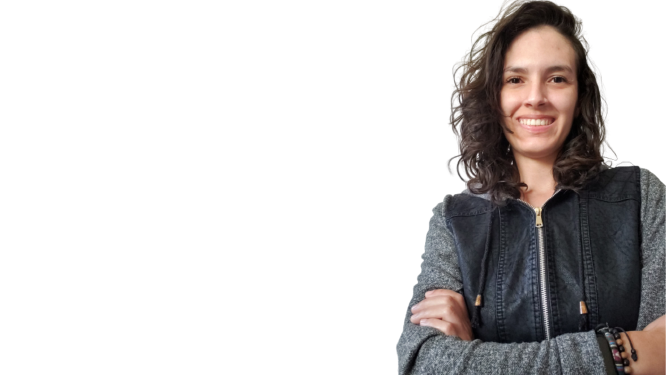
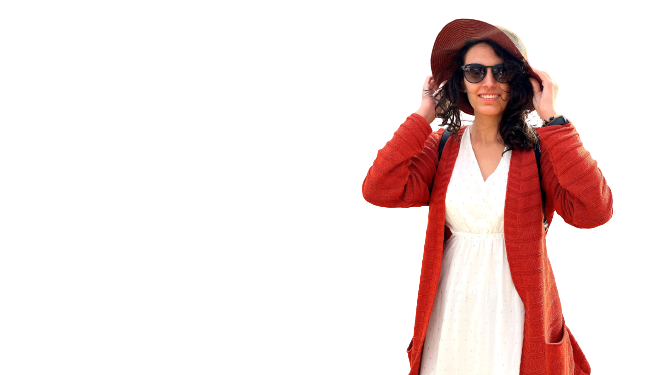
mudança na foto do header e inserção de imagens e texto dos projetos

diff --git a/src/components/Main.js b/src/components/Main.js
@@ -1,37 +1,58 @@
-import React from "react";
+import React from 'react';
 
 function Main() {
   return (
-    <main className="container">
-      <div className="card-container">
-        <div className="card">
-          <div className="card-wrapper">
-            <h2>Projeto 1</h2>
+    <main className='projects-container'>
+      <div className='card-container'>
+        <div className='card shopping-cart'>
+          <div className='card-wrapper'>
+            <h2>Shopping Cart</h2>
             <p>Vem ver!</p>
           </div>
         </div>
-        <div className="card-text">Textão aqui</div>
+        <div className='card-text'>
+          Nesse projeto foi desenvolvido um carrinho de compras totalmente
+          dinâmico consumindo dados diretamente da API do Mercado Livre!
+        </div>
       </div>
-      <div className="card-container">
-        <div className="card">
-          <div className="card-wrapper">
-            <h2>Projeto 1</h2>
+      <div className='card-container'>
+        <div className='card trybe-tunes'>
+          <div className='card-wrapper'>
+            <h2>Trybe Tunes</h2>
             <p>Vem ver!</p>
           </div>
         </div>
-        <div className="card-text">Textão aqui</div>
+        <div className='card-text'>
+          O TrybeTunes é uma aplicação capaz de reproduzir músicas das mais
+          variadas bandas e artistas, criar uma lista de músicas favoritas e
+          editar o perfil da pessoa usuária logada.
+        </div>
       </div>
-      <div className="card-container">
-        <div className="card">
-          <div className="card-wrapper">
-            <h2>Projeto 1</h2>
+      <div className='card-container'>
+        <div className='card trybe-wallet'>
+          <div className='card-wrapper'>
+            <h2>Trybe Wallet</h2>
             <p>Vem ver!</p>
           </div>
         </div>
-        <div className="card-text">Textão aqui</div>
+        <div className='card-text'>
+          O TrybeWallet é uma carteira de controle de gastos com conversor de
+          moedas.
+        </div>
+      </div>
+      <div className='card-container'>
+        <div className='card trivia'>
+          <div className='card-wrapper'>
+            <h2>Trivia</h2>
+            <p>Vem ver!</p>
+          </div>
+        </div>
+        <div className='card-text'>
+        O Trivia é um jogo de perguntas e respostas.
+        </div>
       </div>
     </main>
-  )
+  );
 }
 
 export default Main;

diff --git a/src/App.css b/src/App.css
@@ -9,7 +9,7 @@ body {
 
 .header-container {
   height: 100vh;
-  /* width: 100vw; */
+  width: 100%;
   background-color: #60e1e0;
   background-image: url('./images/background.png');
   background-repeat: no-repeat;
@@ -174,7 +174,7 @@ a:hover {
   opacity: 1;
 }
 
-.container {
+.projects-container {
   height: auto;
   width: 100%;
   display: flex;
@@ -198,21 +198,45 @@ a:hover {
   display: flex;
   align-items: center;
   justify-content: center;
-  background-color: #60e1e0;
-  background-image: url(./images/background.png);
-  background-position: center;
-  background-size: cover;
-  background-repeat: no-repeat;
   filter: grayscale(0.5);
   color: #1e1e2a;
   cursor: pointer;
   transition: 0.5s ease-in-out;
 }
 
+.shopping-cart {
+  background-image: url(./images/shopping-cart.png);
+  background-position: center;
+  background-size: cover;
+  background-repeat: no-repeat;
+}
+
+.trybe-tunes {
+  background-image: url(./images/trybe-tunes.png);
+  background-position: center;
+  background-size: cover;
+  background-repeat: no-repeat;
+}
+
+.trybe-wallet {
+  background-image: url(./images/trybe-wallet.png);
+  background-position: center;
+  background-size: cover;
+  background-repeat: no-repeat;
+}
+
+.trivia {
+  background-image: url(./images/trivia.png);
+  background-position: center;
+  background-size: cover;
+  background-repeat: no-repeat;
+}
+
 .card-text {
   width: 40%;
   letter-spacing: 1px;
   color: rgb(109, 109, 109);
+  text-align: justify;
 }
 
 .card-wrapper {

diff --git a/src/components/Header.js b/src/components/Header.js
@@ -30,10 +30,10 @@ function Header() {
         </div>
       </div>
       <h1>Tayná Silva Macêdo</h1>
-      <h2>Front-end developer</h2>
+      <h2>Estudante de desenvolvimento web</h2>
       <div className='social-media'>
-        <a href='#'>Linkedin</a>
-        <a href='#'>GitHub</a>
+        <a href='https://www.linkedin.com/in/tayna-macedo/' target="_blank" rel="noreferrer">Linkedin</a>
+        <a href='https://github.com/Tayna-Silva-Macedo' target="_blank" rel="noreferrer">GitHub</a>
       </div>
     </header>
   );
